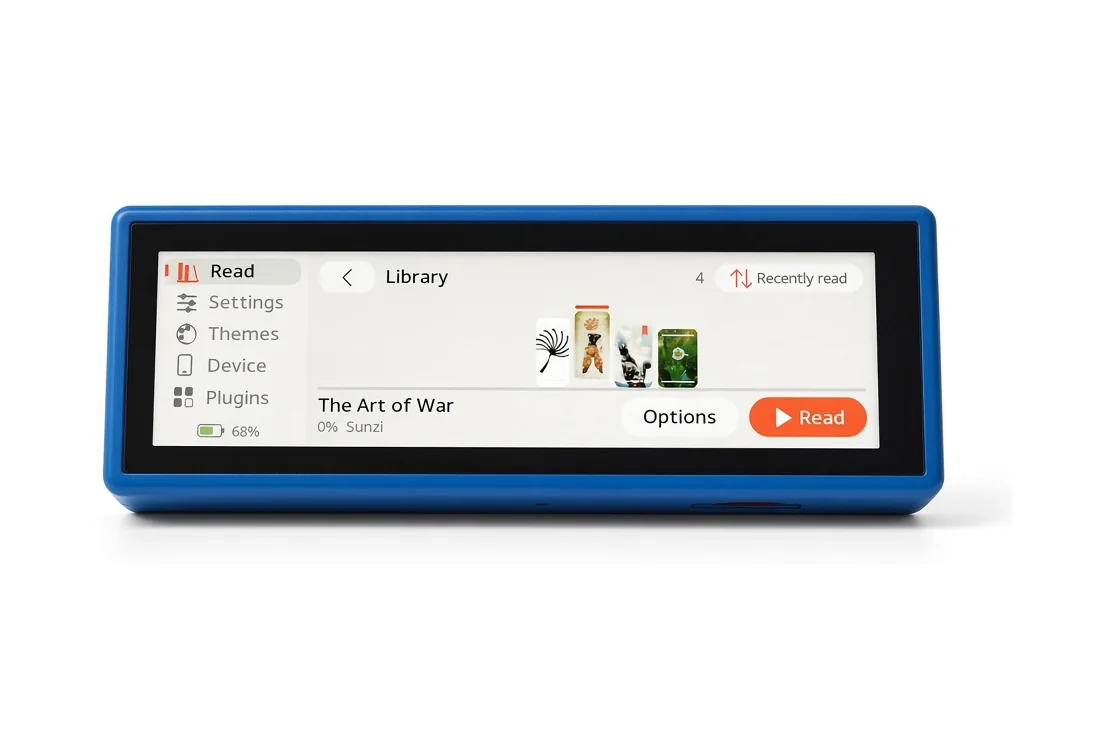
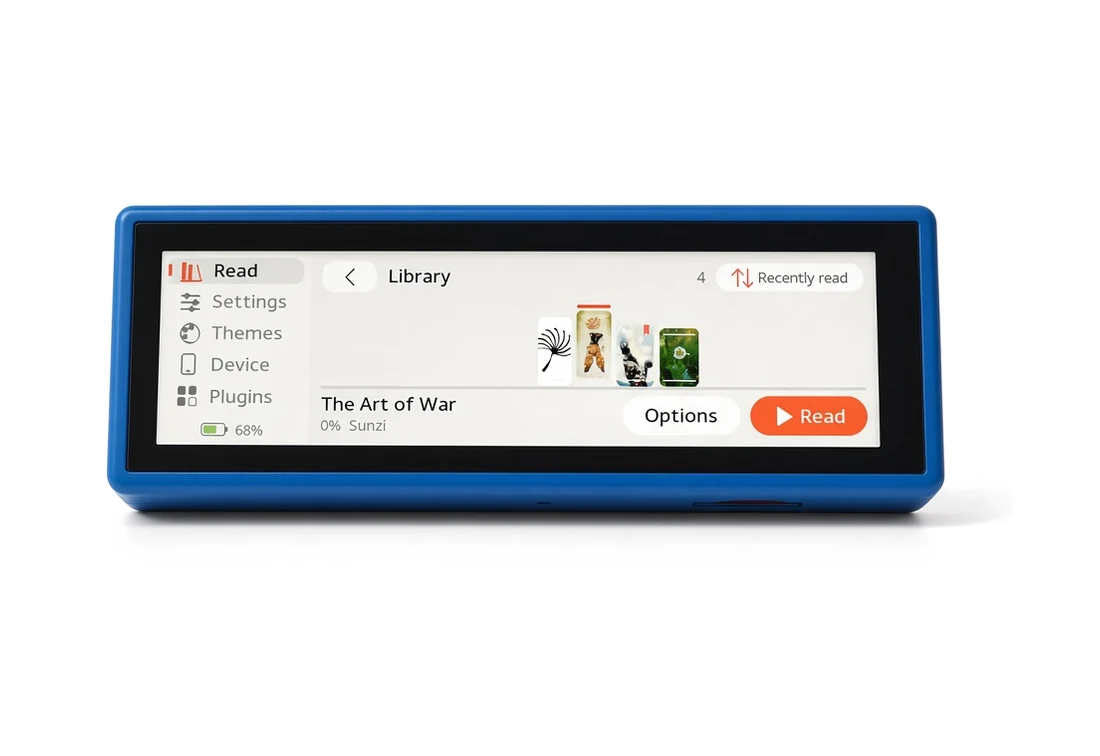
Sklep: galeria z 7 zdjęć, tryb nocny, bok z przyciskami i tył
- Usunięte zdjęcie menu (zniekształcone proporcje); na stronie pomocy
  zastąpione zdjęciem biblioteki.
- Dodane: tryb nocny, bok z przyciskami i portem USB-C, tył pod kątem
  z głośnikiem i przyciskami, tył płaski.
- Retusz: czysty ekran na zdjęciu z boku, naklejki bez znaku CE
  i bez zniekształconych napisów.
- Tło zdjęć wygładzone, bez prostokątnych krawędzi cienia.

Claude-Session: https://claude.ai/code/session_014VPke1m4uxLZH5hJ7RxM4g

diff --git a/pomoc/index.html b/pomoc/index.html
@@ -421,7 +421,7 @@ kbd{font-family:var(--mn);font-size:.82em;background:var(--bg2);border:1px solid
     <!-- 3 -->
     <section class="sec" id="menu">
       <header class="rv"><p class="lbl">03 · Menu</p><h2>Cztery zakładki.</h2><p>Menu otwierasz środkowym przyciskiem z ekranu przed czytaniem. Przy każdej opcji jest znak „?”, który tłumaczy, co ona zmienia.</p></header>
-      <figure class="fig rv"><img src="../obrazy/menu.webp" alt="Menu czytnika: Czytaj, Ustawienia, Motywy, Urządzenie" loading="lazy" width="1100" height="756"></figure>
+      <figure class="fig rv"><img src="../obrazy/biblioteka.webp" alt="Menu czytnika po lewej: Czytaj, Ustawienia, Motywy, Urządzenie" loading="lazy" width="1100" height="756"></figure>
       <div class="rv">
         <div class="tabs" role="tablist" data-tabs="m">
           <button role="tab" aria-selected="true" data-t="m1">Czytaj</button><button role="tab" aria-selected="false" data-t="m2">Ustawienia</button><button role="tab" aria-selected="false" data-t="m3">Motywy</button><button role="tab" aria-selected="false" data-t="m4">Urządzenie</button>
@@ -447,7 +447,6 @@ kbd{font-family:var(--mn);font-size:.82em;background:var(--bg2);border:1px solid
     <!-- 5 -->
     <section class="sec" id="ksiazki">
       <header class="rv"><p class="lbl">05 · Wgrywanie książek</p><h2>Cztery drogi <em>na kartę.</em></h2><p>Najwygodniej przez telefon. Kabel i karta przydają się, gdy wgrywasz dużo naraz.</p></header>
-      <figure class="fig rv"><img src="../obrazy/biblioteka.webp" alt="Biblioteka na czytniku" loading="lazy" width="1100" height="756"></figure>
       <div class="rv">
         <div class="tabs" role="tablist" data-tabs="k">
           <button role="tab" aria-selected="true" data-t="k1">Aplikacja</button><button role="tab" aria-selected="false" data-t="k2">Przeglądarka</button><button role="tab" aria-selected="false" data-t="k3">Kabel USB</button><button role="tab" aria-selected="false" data-t="k4">Karta microSD</button>

diff --git a/index.html b/index.html
@@ -154,7 +154,7 @@ body.dark #meadow{visibility:hidden}
 @media (max-width:900px){.gal{position:static}}
 .gal .main{aspect-ratio:16/11;display:grid;place-items:center;background:#fff;border-radius:22px;overflow:hidden}
 .gal .main img{width:100%;height:100%;object-fit:contain;display:block}
-.thumbs{display:grid;grid-template-columns:repeat(5,minmax(0,1fr));gap:8px;margin-top:10px}
+.thumbs{display:grid;grid-template-columns:repeat(7,minmax(0,1fr));gap:6px;margin-top:10px}
 .thumbs button{aspect-ratio:16/11;border:0;border-radius:12px;overflow:hidden;background:#fff;padding:0;cursor:pointer;opacity:.6;transition:opacity .2s,box-shadow .2s}
 .thumbs button:hover{opacity:.85}
 .thumbs button[aria-pressed="true"]{opacity:1;box-shadow:0 0 0 2px var(--fg)}
@@ -1330,7 +1330,7 @@ var seedsLayer=document.getElementById('seeds'),meadow=document.getElementById('
 })();
 /* ---------- product photos ---------- */
 (function(){
-  var P=[['przod-jasny','Przód, motyw jasny'],['menu','Menu z boku, widać gniazdo karty microSD'],['biblioteka','Biblioteka'],['przod-ciemny','Przód, motyw ciemny'],['tyl','Tył z naklejką']];
+  var P=[['przod-jasny','Przód, motyw jasny'],['tryb-nocny','Przód, motyw nocny'],['przod-ciemny','Przód, motyw ciemny'],['biblioteka','Biblioteka'],['bok-przyciski','Bok z przyciskami i portem USB-C'],['tyl-bok','Tył z głośnikiem, przyciskami i USB-C'],['tyl','Tył z naklejką']];
   var thumbs=document.getElementById('thumbs'),main=document.getElementById('gMain');
   P.forEach(function(p,i){var src='obrazy/'+p[0]+'.webp',b=document.createElement('button');b.type='button';b.setAttribute('aria-pressed',i===0?'true':'false');b.setAttribute('aria-label',p[1]);
     var im=document.createElement('img');im.src=src;im.alt='';im.loading='lazy';im.decoding='async';b.appendChild(im);
